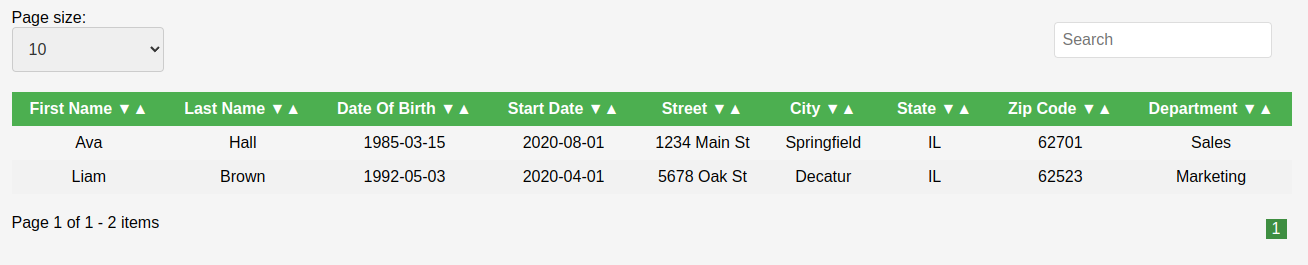
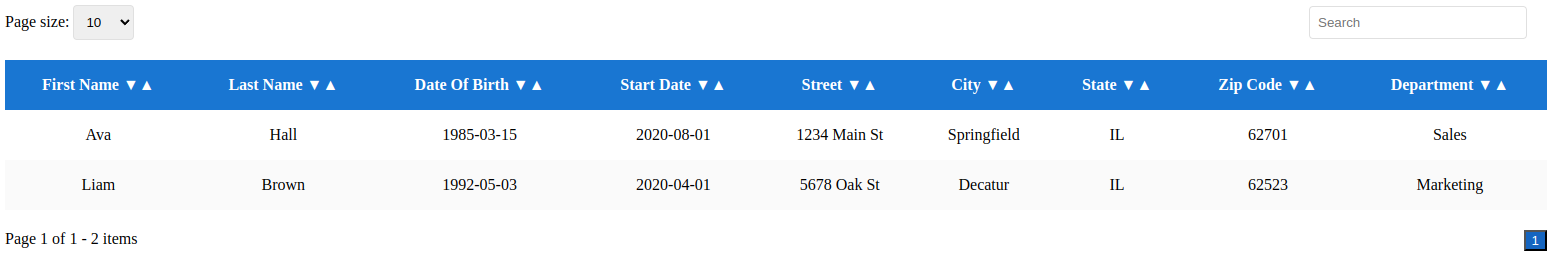
readme updated

diff --git a/src/main.tsx b/src/main.tsx
@@ -2,7 +2,28 @@ import { createRoot } from 'react-dom/client'
 import { Table } from '../lib/components/Table'
 
 
-const App = () => <Table list={[]} />
+const App = () => <Table list={[  {
+  "firstName": "Ava",
+  "lastName": "Hall",
+  "dateOfBirth": "1985-03-15",
+  "startDate": "2020-08-01",
+  "street": "1234 Main St",
+  "city": "Springfield",
+  "state": "IL",
+  "zipCode": "62701",
+  "department": "Sales"
+},
+{
+  "firstName": "Liam",
+  "lastName": "Brown",
+  "dateOfBirth": "1992-05-03",
+  "startDate": "2020-04-01",
+  "street": "5678 Oak St",
+  "city": "Decatur",
+  "state": "IL",
+  "zipCode": "62523",
+  "department": "Marketing"
+}]} />
 
 createRoot(document.getElementById('root')!).render(
   <App />
